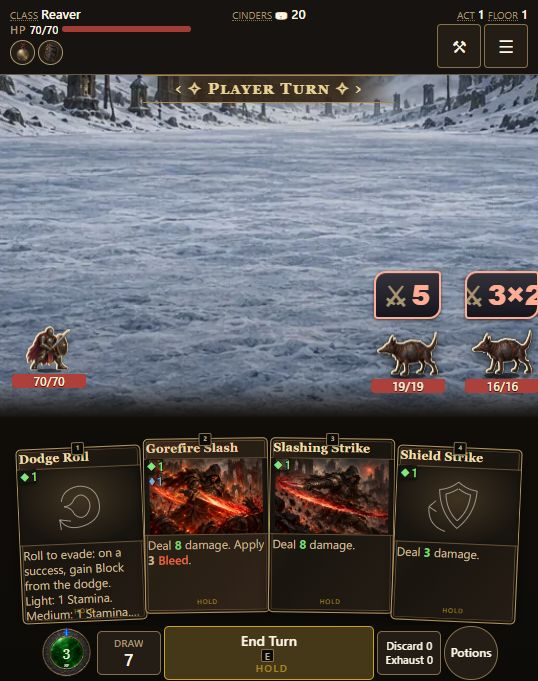
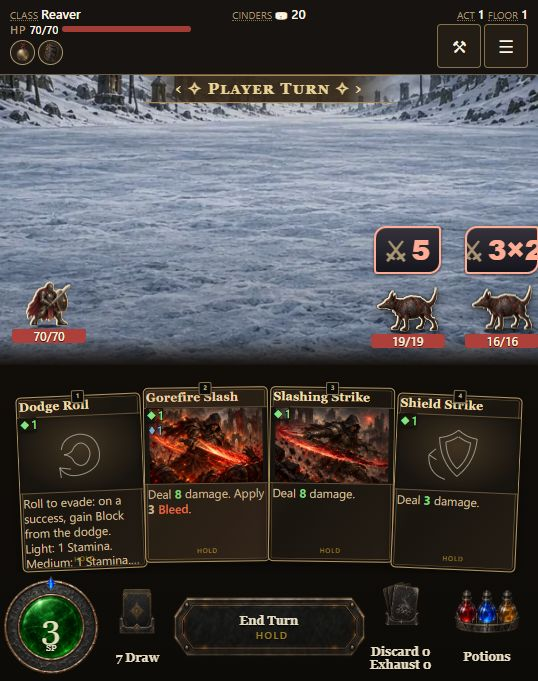
Refresh the control removal against the painted footer

diff --git a/src/content/changelog.generated.js b/src/content/changelog.generated.js
@@ -8,7 +8,7 @@ export const GENERATED_CHANGELOG = Object.freeze([
     "group": "2026-10-03",
     "summary": "Keep positioning tools off the combat screen",
     "detail": "Remove the Positioning button and its combat panel while keeping saved formations applied.",
-    "build": "0.7.1.873",
+    "build": "0.7.1.875",
     "pullRequest": 1560,
     "url": "https://github.com/cehinds/AshenSpire/pull/1560"
   },

diff --git a/CHANGELOG.md b/CHANGELOG.md
@@ -34,7 +34,8 @@ A receipt here names the pull request that landed a change; inventing one to fit
 
 ## 2026-10-03
 
-- **Keep positioning tools off the combat screen** ([#1560](https://github.com/cehinds/AshenSpire/pull/1560), `0.7.1.873`). Remove the Positioning button and its combat panel while keeping saved formations applied.
+- **Keep positioning tools off the combat screen** ([#1560](https://github.com/cehinds/AshenSpire/pull/1560), `0.7.1.875`). Remove the Positioning button and its combat panel while keeping saved formations applied.
+
 - **Painted, editable combat footer** ([#1534](https://github.com/cehinds/AshenSpire/pull/1534), `0.7.1.872`). The stamina orb, draw cradle, End Turn plate, discarded cards and potion tray now assemble from separate painted components. Footer Atelier can move, resize and snap them together, and edit live text bindings, fonts and positions independently of the images. Solo and co-op keep their existing actions, with readable compact controls on phones and short landscape screens. The five new light images total about 9 KB.
 - **Exercise the small-player foot target on every platform** ([#1557](https://github.com/cehinds/AshenSpire/pull/1557), `0.7.1.871`). Separate the browser fixture's player stack from the grid-cell center and keep its sprite inside the measured small bounds, so text and artwork cannot bypass the minimum touch-target check. Gameplay is unchanged.
 - **Keep small-player touch checks reliable without artwork** ([#1555](https://github.com/cehinds/AshenSpire/pull/1555), `0.7.1.870`). Browser checks exercise a deliberately small player in their controlled overlap scene, preserving the foot anchor and verifying that removing its touch target is caught even in copied trees without artwork. Gameplay is unchanged.
